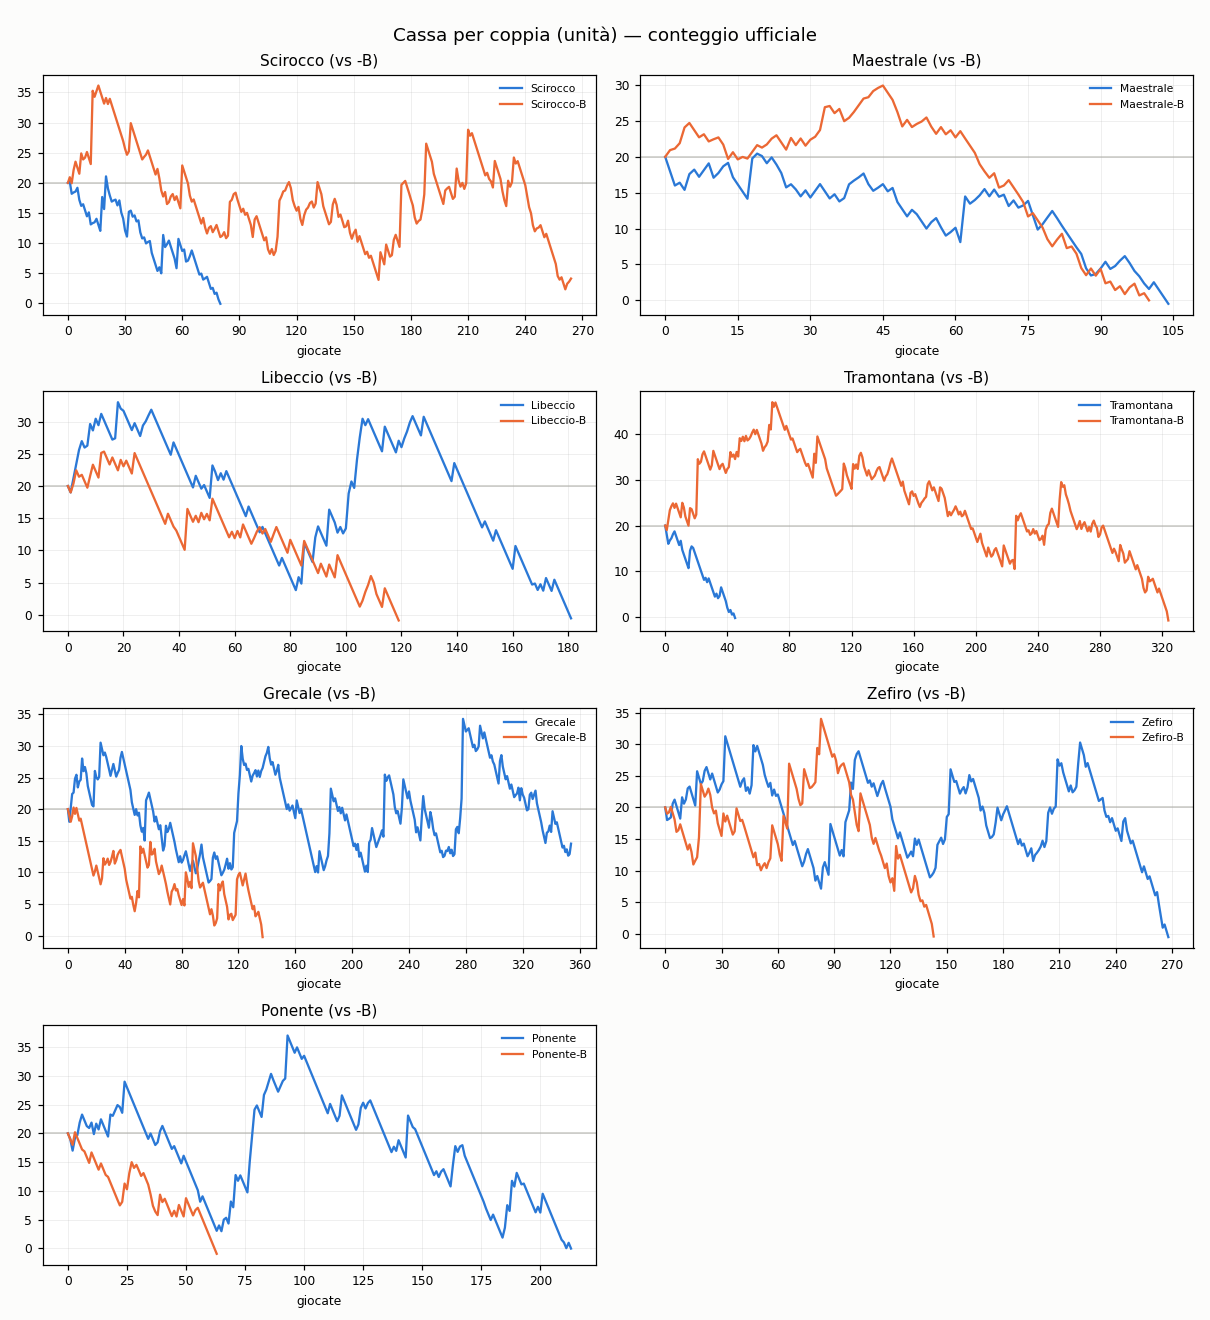
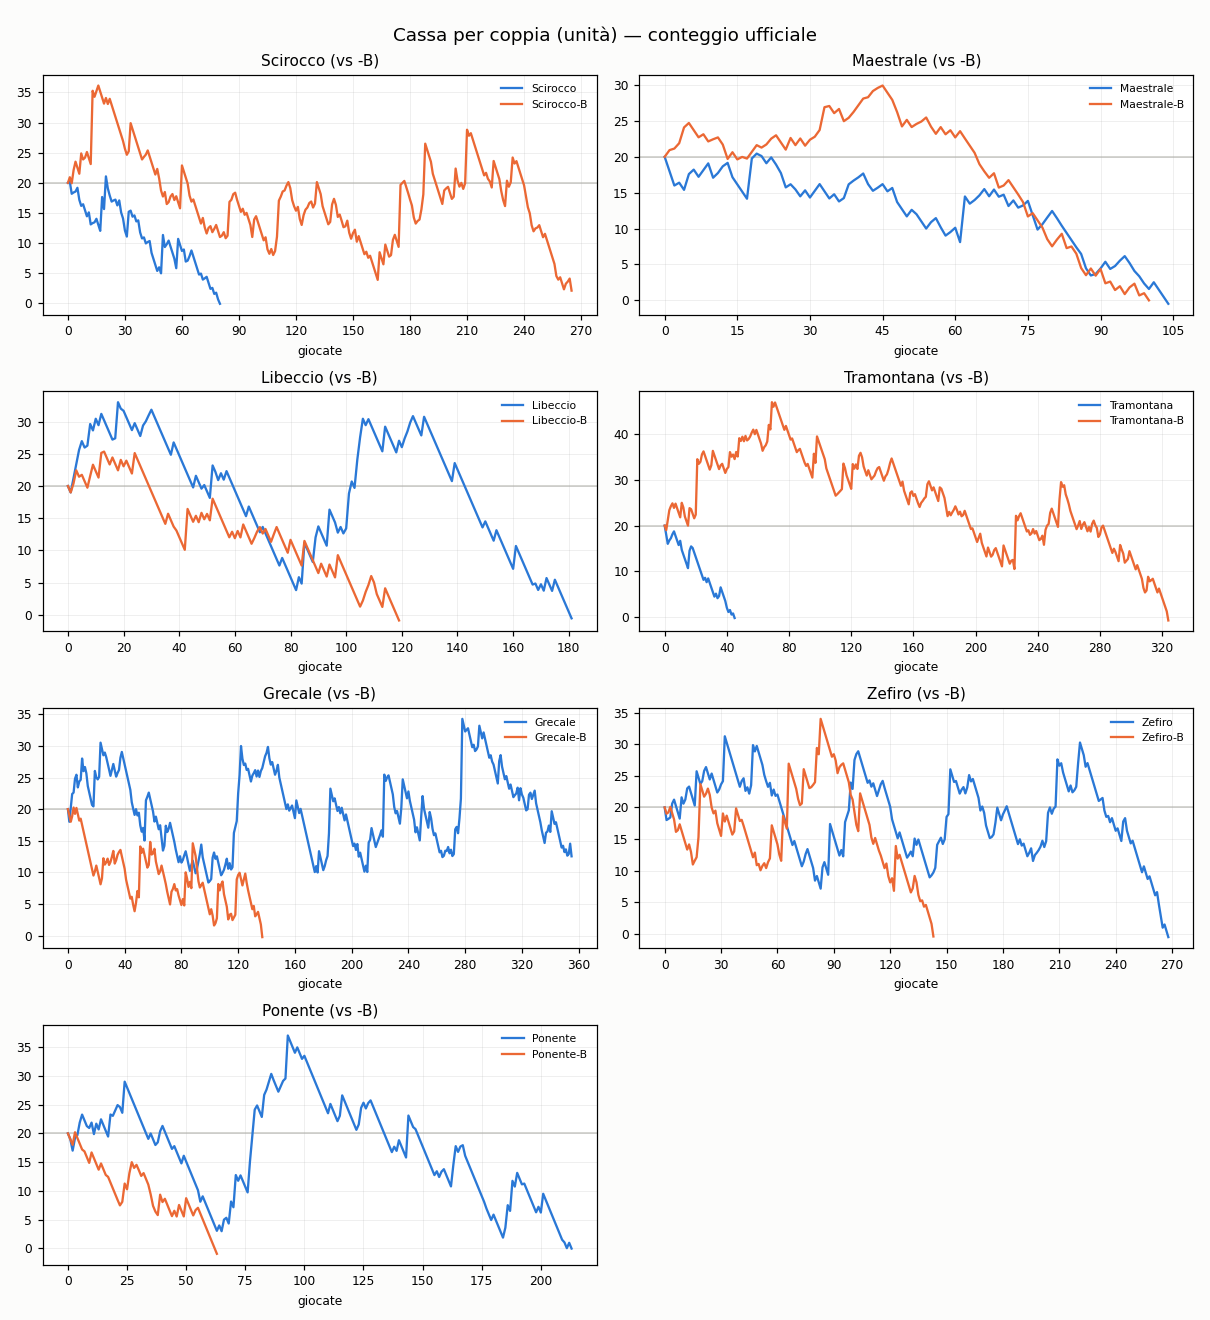
aggiornamento 2026-07-29 13:16 UTC

diff --git a/README.md b/README.md
@@ -37,9 +37,9 @@ scala in unità). Non indichiamo quale.
 
 ## Grafici
 
-![Coppie: dati completi vs ridotti](https://raw.githubusercontent.com/Kitem19/ippica-track-record/main/charts/equity_pairs.png?v=0c2a653f)
+![Coppie: dati completi vs ridotti](https://raw.githubusercontent.com/Kitem19/ippica-track-record/main/charts/equity_pairs.png?v=a8ac3df0)
 
-![Delta per coppia](https://raw.githubusercontent.com/Kitem19/ippica-track-record/main/charts/coppie_delta.png?v=d7efb106)
+![Delta per coppia](https://raw.githubusercontent.com/Kitem19/ippica-track-record/main/charts/coppie_delta.png?v=f7d2312d)
 
 ### Come leggere i grafici
 
@@ -56,11 +56,11 @@ scala in unità). Non indichiamo quale.
 
 _Poche giornate: numeri ancora rumorosi, si conclude a fine fase (31/7)._
 
-- **Scirocco**: dati ridotti avanti di 4,2u — qui gli extra non aiutano
+- **Scirocco**: dati ridotti avanti di 2,2u — qui gli extra non aiutano
 - **Maestrale**: in sostanziale pareggio — troppo presto per dire
 - **Libeccio**: in sostanziale pareggio — troppo presto per dire
 - **Tramontana**: in sostanziale pareggio — troppo presto per dire
-- **Grecale**: dati completi avanti di 14,8u
+- **Grecale**: dati completi avanti di 12,8u
 - **Zefiro**: in sostanziale pareggio — troppo presto per dire
 - **Ponente**: in sostanziale pareggio — troppo presto per dire
 
@@ -68,22 +68,22 @@ _Poche giornate: numeri ancora rumorosi, si conclude a fine fase (31/7)._
 
 | Sistema | Cassa (u) | P/L (u) | Selezioni | Escluse | Stato |
 |---|---|---|---|---|---|
-| Grecale | 14,5 | -5,5 | 354 | 4 | 🟢 |
-| Scirocco-B | 4,1 | -15,9 | 264 | 6 | 🟢 |
-| Maestrale-B | 0,0 | -20,0 | 100 | 289 | 🛑 |
-| Ponente | 0,0 | -20,0 | 213 | 59 | 🛑 |
+| Grecale | 12,5 | -7,5 | 355 | 4 | 🟢 |
+| Scirocco-B | 2,1 | -17,9 | 265 | 6 | 🟢 |
+| Maestrale-B | 0,0 | -20,0 | 100 | 290 | 🛑 |
+| Ponente | 0,0 | -20,0 | 213 | 60 | 🛑 |
 | Scirocco | 0,0 | -20,1 | 80 | 311 | 🛑 |
-| Grecale-B | 0,0 | -20,2 | 137 | 200 | 🛑 |
-| Tramontana | 0,0 | -20,3 | 45 | 347 | 🛑 |
+| Grecale-B | 0,0 | -20,2 | 137 | 201 | 🛑 |
+| Tramontana | 0,0 | -20,3 | 45 | 348 | 🛑 |
 | Zefiro-B | 0,0 | -20,5 | 143 | 98 | 🛑 |
-| Maestrale | 0,0 | -20,5 | 104 | 308 | 🛑 |
-| Zefiro | 0,0 | -20,6 | 268 | 35 | 🛑 |
-| Libeccio | 0,0 | -20,6 | 181 | 214 | 🛑 |
-| Tramontana-B | 0,0 | -20,8 | 324 | 60 | 🛑 |
-| Libeccio-B | 0,0 | -20,9 | 119 | 224 | 🛑 |
+| Maestrale | 0,0 | -20,5 | 104 | 309 | 🛑 |
+| Zefiro | 0,0 | -20,6 | 268 | 36 | 🛑 |
+| Libeccio | 0,0 | -20,6 | 181 | 215 | 🛑 |
+| Tramontana-B | 0,0 | -20,8 | 324 | 61 | 🛑 |
+| Libeccio-B | 0,0 | -20,9 | 119 | 225 | 🛑 |
 | Ponente-B | 0,0 | -21,0 | 63 | 116 | 🛑 |
 
-_Aggiornato: 29/07 15:11_
+_Aggiornato: 29/07 15:16_
 ---
 *Nessuna delle informazioni qui pubblicate costituisce consiglio di gioco.
 Il gioco può causare dipendenza — 18+.*
